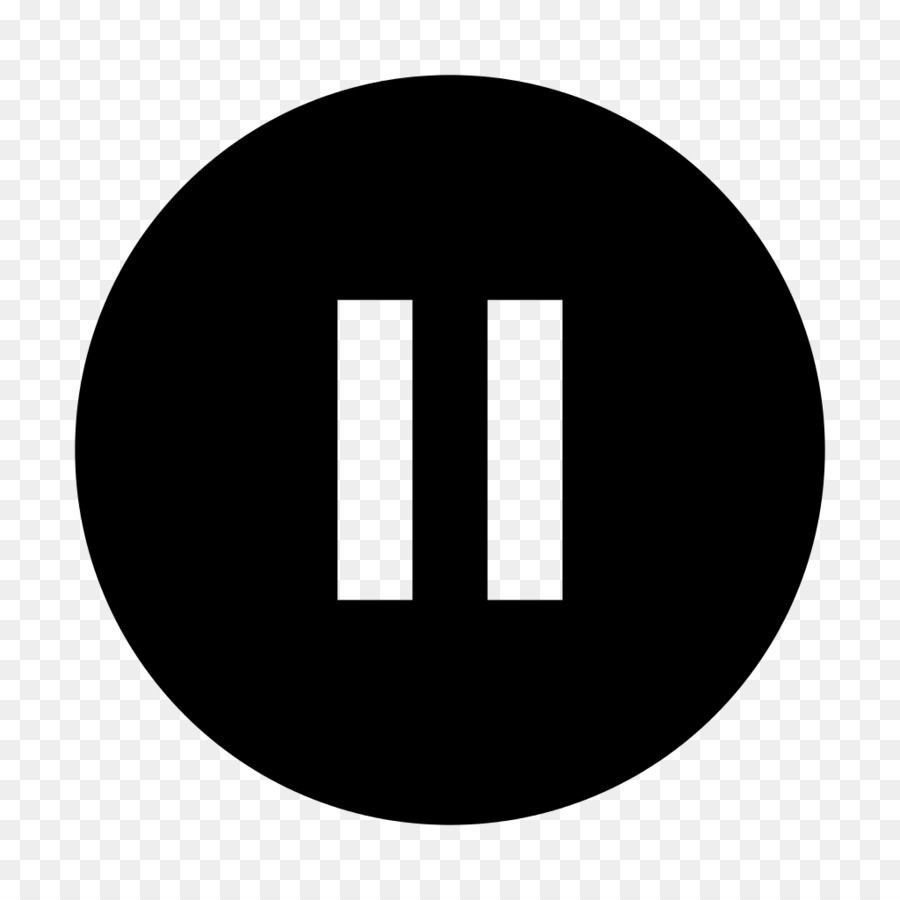
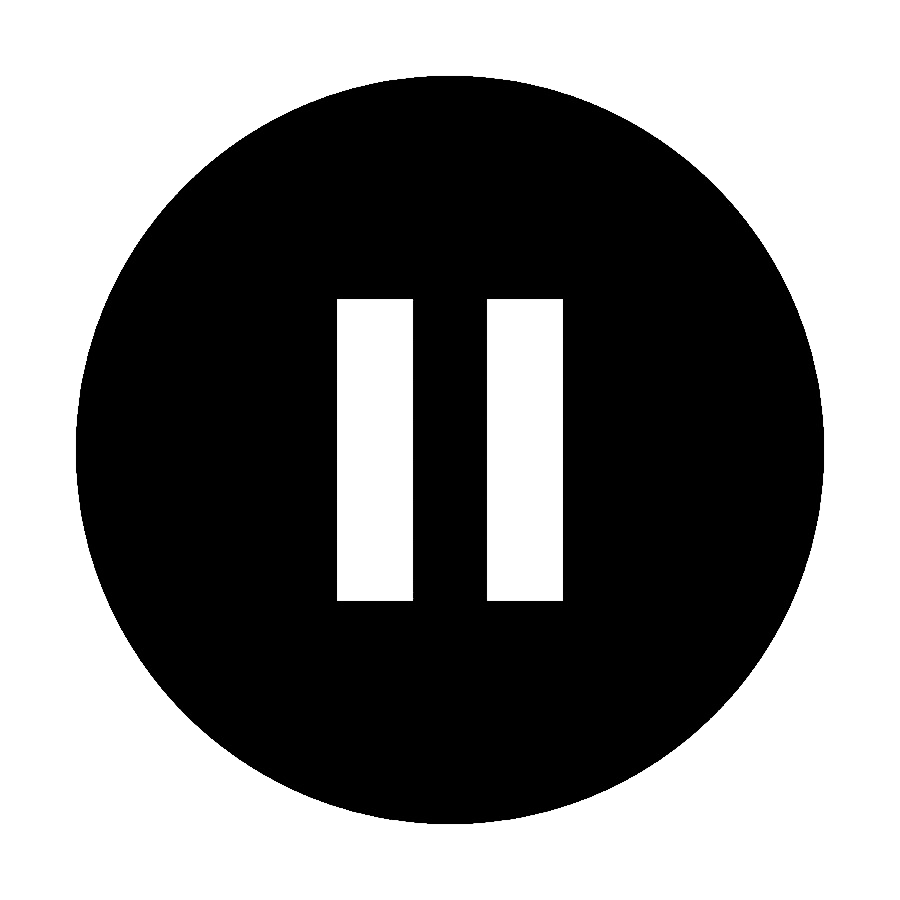
2016182036 drill#8 commit 2
https://youtu.be/qU-QSspfuEI

diff --git a/drill8/pause_state.py b/drill8/pause_state.py
@@ -6,7 +6,7 @@ from pico2d import *
 
 name = "PuaseState"
 image = None
-
+time_n = 0
 
 def enter():
     global  image
@@ -25,7 +25,22 @@ def handle_events():
             if (event.type, event.key) == (SDL_KEYDOWN, SDLK_p):
                 game_framework.pop_state()
 def draw():
-    image.draw(400, 200, 500, 300)
+    global time_n
+
+    if time_n > 0.5 and time_n < 1:
+        clear_canvas()
+        main_state.draw()
+
+    else :
+        image.clip_draw(0, 0, 900, 900, 450, 450)
+
+
+    delay(0.01)
+    time_n += 0.01
+
+    if time_n >= 1:
+        time_n = 0
+
     update_canvas()
 
 
